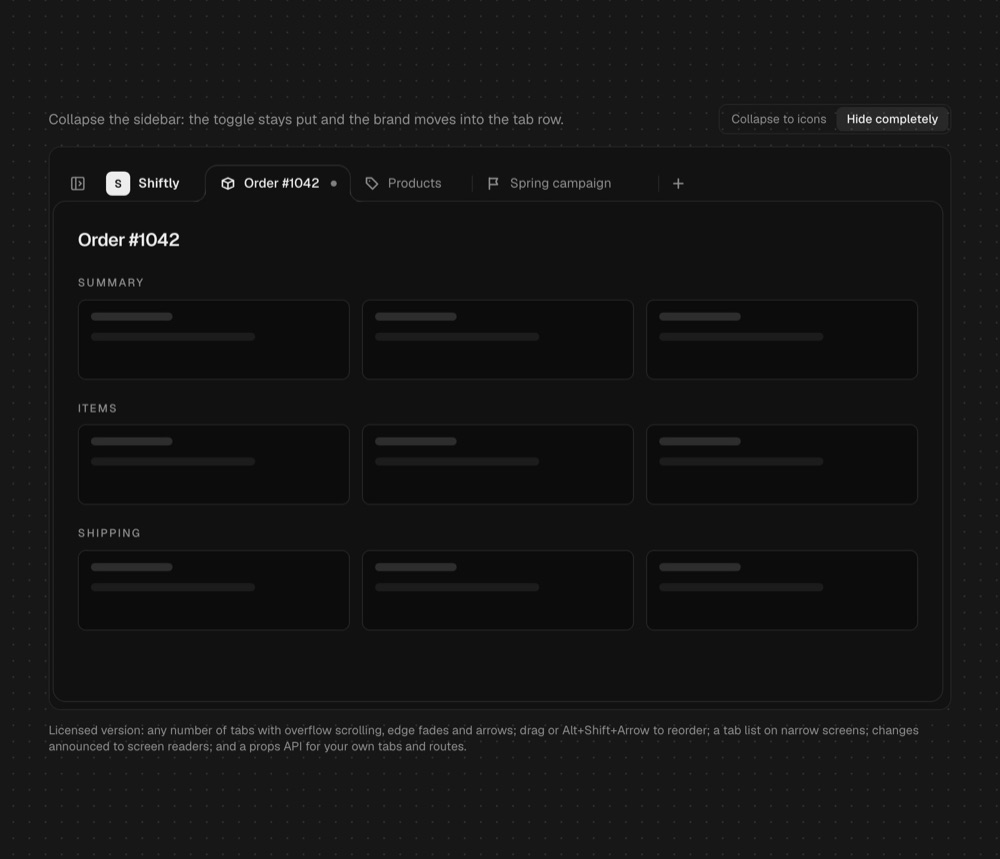
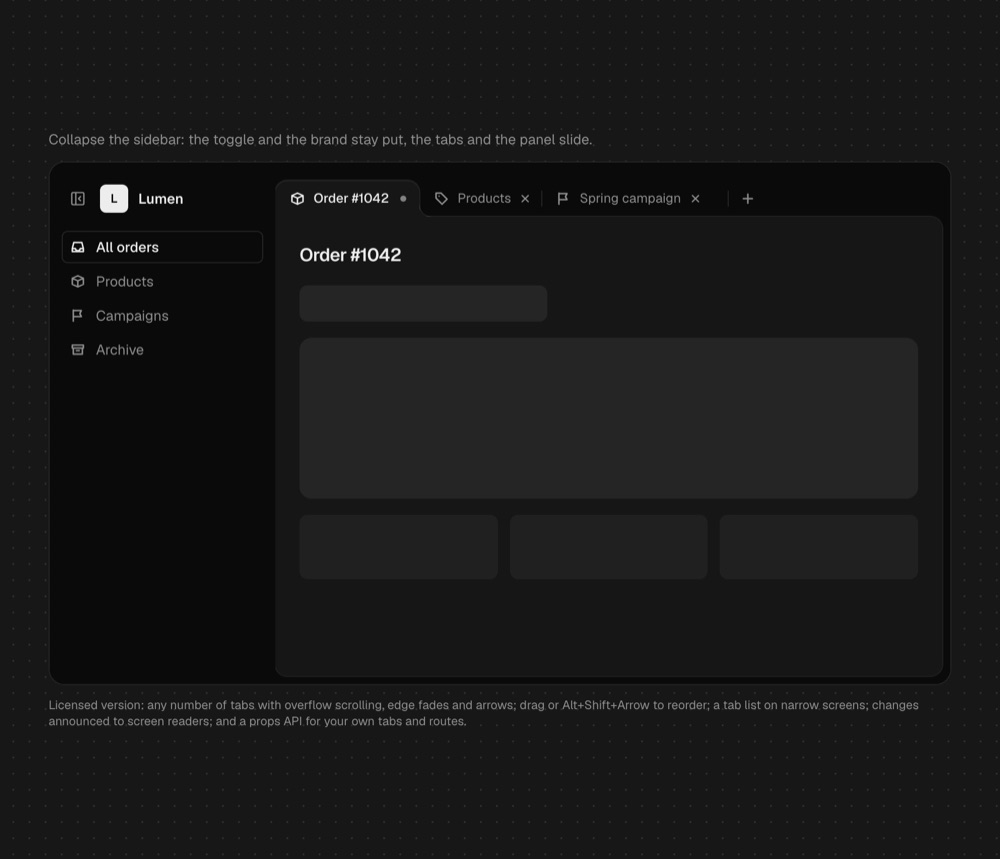
feat(app-shell): pinBrand keeps the brand beside the toggle; flush colours
Side-by-side with the reference video showed the brand never moves there: the
toggle and the brand are one fixed group at the top left, and only the tab row
and the panel slide with the sidebar.

- pinBrand renders the brand next to the pinned toggle in every state (right
  edge marked data-shell-brand); the sidebar keeps an invisible brand row so the
  nav does not shift
- layout="flush": window colour a step below the panels (muted mix in light,
  background in dark) so content panels stand out
- registry watchOut and zh-TW, zh-CN, ja copy for pinBrand; workspace-tabs OG
- reports: comparison with the reference before and after the fix

diff --git a/apps/web/registry/free/app-shell/app-shell.tsx b/apps/web/registry/free/app-shell/app-shell.tsx
@@ -136,6 +136,12 @@ export interface AppShellProps {
    * so it can draw its own surfaces (such as tabs joined to a panel). Phones keep the usual layout.
    */
   layout?: "padded" | "flush";
+  /**
+   * Desktop: keep the brand beside the toggle in every state, like a window title, instead of inside the sidebar
+   * where it fades out on collapse. Content that starts at the top (such as a tab row) should leave room for it while
+   * the sidebar is collapsed; its right edge is on the element marked data-shell-brand.
+   */
+  pinBrand?: boolean;
   /** Cmd/Ctrl + B toggles collapse; on by default */
   shortcut?: boolean;
   /** Second-level ids that start expanded; the section containing the current page expands automatically */
@@ -252,6 +258,8 @@ const ROW_BASE =
 const ROW_ACTIVE = "bg-background font-medium text-foreground shadow-[inset_0_0_0_1px_var(--border)]";
 const ROW_IDLE = "text-muted-foreground hover:bg-muted hover:text-foreground";
 const SIDEBAR_BG = "bg-[color-mix(in_oklab,var(--muted)_45%,var(--background))]";
+// layout="flush": one window colour for the sidebar and the content, a step below the panels that sit on it
+const FLUSH_BG = "bg-[color-mix(in_oklab,var(--muted)_80%,var(--background))] dark:bg-background";
 
 // Tailwind needs to see complete class strings to generate them, so write one copy for each breakpoint kind
 const BP = {
@@ -261,7 +269,7 @@ const BP = {
     mobile: "@3xl/shell:hidden",
     column: "flex min-h-0 min-w-0 flex-1 flex-col overflow-y-auto overscroll-contain",
     main: "min-w-0 flex-1 px-4 pt-5 pb-[calc(env(safe-area-inset-bottom)+5.5rem)] @3xl/shell:px-10 @3xl/shell:py-10",
-    flushColumn: "@3xl/shell:bg-[color-mix(in_oklab,var(--muted)_45%,var(--background))]",
+    flushColumn: "@3xl/shell:bg-[color-mix(in_oklab,var(--muted)_80%,var(--background))] @3xl/shell:dark:bg-background",
     flushMain: "flex min-h-0 flex-col @3xl/shell:p-0",
     layer: "absolute",
   },
@@ -271,7 +279,7 @@ const BP = {
     mobile: "md:hidden",
     column: "flex min-h-screen min-w-0 flex-1 flex-col",
     main: "min-w-0 flex-1 px-4 pt-5 pb-[calc(env(safe-area-inset-bottom)+5.5rem)] md:px-10 md:py-10",
-    flushColumn: "md:bg-[color-mix(in_oklab,var(--muted)_45%,var(--background))]",
+    flushColumn: "md:bg-[color-mix(in_oklab,var(--muted)_80%,var(--background))] md:dark:bg-background",
     flushMain: "flex flex-col md:p-0",
     layer: "fixed",
   },
@@ -1074,6 +1082,7 @@ function Sidebar({
   bp,
   collapseMode,
   flush,
+  pinBrand,
 }: {
   groups: AppShellNavGroup[];
   brand: AppShellProps["brand"];
@@ -1086,6 +1095,7 @@ function Sidebar({
   bp: (typeof BP)[keyof typeof BP];
   collapseMode: "rail" | "hidden";
   flush: boolean;
+  pinBrand: boolean;
 }) {
   const { t, link, navigate } = useShell();
   // Do not play the collapse animation on first load (the collapsed state may have just been read back from storage)
@@ -1118,28 +1128,46 @@ function Sidebar({
     <div className={cn(bp.desktop, !ready && "[&,&_*]:transition-none!")}>
       {/* One toggle for every state, pinned at the brand row's spacer (sidebar padding 12px + 2px, row top 20px + 2px).
           It never moves, so a second press lands on it again. First in the DOM so it is also first in tab order. */}
-      <button
-        type="button"
-        onClick={toggle}
-        aria-label={collapsed ? t.expand : t.collapse}
-        title={`${collapsed ? t.expand : t.collapse}${shortcut ? " (⌘B)" : ""}`}
-        aria-expanded={!collapsed}
-        className="absolute top-[22px] left-[14px] z-30 flex size-7 items-center justify-center rounded-md text-muted-foreground outline-none transition-colors hover:bg-muted hover:text-foreground focus-visible:ring-2 focus-visible:ring-ring/50"
-      >
-        {/* The two icons cross-fade in place */}
-        <PanelLeftClose
-          className={cn(
-            "absolute size-4 transition-opacity duration-150 motion-reduce:transition-none",
-            collapsed ? "opacity-0" : "opacity-100",
-          )}
-        />
-        <PanelLeftOpen
-          className={cn(
-            "absolute size-4 transition-opacity duration-150 motion-reduce:transition-none",
-            collapsed ? "opacity-100" : "opacity-0",
-          )}
-        />
-      </button>
+      <div className="absolute top-[22px] left-[14px] z-30 flex items-center gap-2">
+        <button
+          type="button"
+          onClick={toggle}
+          aria-label={collapsed ? t.expand : t.collapse}
+          title={`${collapsed ? t.expand : t.collapse}${shortcut ? " (⌘B)" : ""}`}
+          aria-expanded={!collapsed}
+          className="relative flex size-7 shrink-0 items-center justify-center rounded-md text-muted-foreground outline-none transition-colors hover:bg-muted hover:text-foreground focus-visible:ring-2 focus-visible:ring-ring/50"
+        >
+          {/* The two icons cross-fade in place */}
+          <PanelLeftClose
+            className={cn(
+              "absolute size-4 transition-opacity duration-150 motion-reduce:transition-none",
+              collapsed ? "opacity-0" : "opacity-100",
+            )}
+          />
+          <PanelLeftOpen
+            className={cn(
+              "absolute size-4 transition-opacity duration-150 motion-reduce:transition-none",
+              collapsed ? "opacity-100" : "opacity-0",
+            )}
+          />
+        </button>
+        {pinBrand
+          ? link({
+              href: brand.href ?? "/",
+              onClick: (e) => navigate(brand.href ?? "/", e),
+              "aria-label": t.home(brand.name),
+              "data-shell-brand": "",
+              className:
+                "flex items-center gap-2.5 rounded-md pr-1.5 text-sm font-semibold whitespace-nowrap text-foreground outline-none focus-visible:ring-2 focus-visible:ring-ring/50",
+              children: (
+                <>
+                  <span className="flex size-7 shrink-0 items-center justify-center rounded-md bg-foreground text-background">{logo}</span>
+                  {brand.name}
+                </>
+              ),
+            } as AppShellLinkProps)
+          : null}
+      </div>
       {/* hidden mode: this clip animates its width to 0 while the sidebar keeps its full width, so nothing reflows */}
       <div
         inert={hidden && collapsed}
@@ -1155,7 +1183,7 @@ function Sidebar({
           className={cn(
             "group/sidebar flex h-full flex-col overflow-hidden px-3 py-5 transition-[width] duration-300 motion-reduce:transition-none",
             !flush && "border-r border-border",
-            SIDEBAR_BG,
+            flush ? FLUSH_BG : SIDEBAR_BG,
             EASE,
             rail ? "w-14" : "w-56",
           )}
@@ -1165,7 +1193,7 @@ function Sidebar({
               out with the other labels when the sidebar collapses. */}
           <div className="flex h-8 items-center gap-2">
             <span aria-hidden="true" className="ml-0.5 size-7 shrink-0" />
-            <div className={cn("flex min-w-0 flex-1 items-center gap-2.5", FADE)}>
+            <div className={cn("flex min-w-0 flex-1 items-center gap-2.5", FADE, pinBrand && "invisible")}>
               {link({
                 href: brand.href ?? "/",
                 onClick: (e) => navigate(brand.href ?? "/", e),
@@ -1513,6 +1541,7 @@ export function AppShell({
   breakpoint = "container",
   collapseMode = "rail",
   layout = "padded",
+  pinBrand = false,
   locale,
   labels,
   className,
@@ -1634,6 +1663,7 @@ export function AppShell({
               bp={bp}
               collapseMode={collapseMode}
               flush={layout === "flush"}
+              pinBrand={pinBrand}
             />
             <div ref={columnRef} className={cn(bp.column, layout === "flush" && bp.flushColumn)}>
               <MobileTopBar

diff --git a/reports/側邊欄開關不要跳與動態分頁深度分析-2026-11-22.md b/reports/側邊欄開關不要跳與動態分頁深度分析-2026-11-22.md
@@ -64,3 +64,21 @@
 
 - **規則寫進 agent 指引**：把「開關錨定、一顆按鈕」寫進 `DESIGN-product.md` 與 `lib/agent/guidelines.ts`，agent 用 SunUI 組 app 外框時也會照做。（這次沒改設計文件，要改的話兩邊一起改。）
 - **行銷素材**：「反例 192px，正解 0px」這種前後對照的短片很好傳播，SunUI 的 Pro 場景可以用同一種剪法做發布影片。
+
+## 7. 對照原作後的差距（2026-11-22 補）
+
+![原作與我們的對照](assets/workspace-tabs-對照原作-2026-11-22.png)
+
+逐格並排之後，有一個是**我讀錯**的地方，其餘是做得不夠到位：
+
+1. **讀錯：品牌從頭到尾沒有動。** 原作的開關與「Notes」是固定在左上的一組，展開、收合都在同一點；會動的是分頁列與內容面板，收合時面板左緣往左滑到開關下方。我做成「側邊欄的品牌淡出，分頁列再長出另一個品牌」，兩個元素交接，畫面上品牌會閃一下、大小也不一樣。
+2. **展開時第一個分頁貼齊面板左緣。** 原作的選中分頁左邊直接往下接成面板的左邊，沒有反向圓角；收合後面板左緣移走，分頁左邊才出現反向圓角。這正是第 1 節影片 3 秒處放大的那個 14px 圓角。P2 我以「有留白、用不到」拿掉了，這是錯的判斷。
+3. **對比與比例。** 原作面板比外框亮一階，邊界一眼看得到；我們深色模式的面板跟外框幾乎一樣黑。原作的關閉鍵 × 在每個分頁都看得到，字級與分頁高度也大很多。
+4. **內容太滿。** 原作側邊欄只有四個項目，沒有門市切換與帳號列；我們沿用 App Shell 的完整示範，重點被稀釋。
+5. **影片本身。** 原作是拍給人看的講解影片：鏡頭推近到局部、框出檢視範圍、下半部 0.1 倍速放大並標出圓角半徑與時間、反例畫出 192px 的箭頭。我們的型錄卡片影片是自動錄的小卡，兩者不是同一種東西；要有同樣的效果，得另外做一支講解影片。
+
+### 修正後（同日）
+
+![修正後與原作的對照](assets/workspace-tabs-對照原作-修正後-2026-11-22.png)
+
+第 1 到 4 點已改：品牌與開關固定成一組不再移動；展開時第一個分頁貼齊面板左緣、面板左上角變直角；收合時面板滑到開關下方、分頁緊接在品牌後；面板在深色模式亮一階；每個分頁都顯示 ×；示範只留四個導覽項目。剩下的差距是呈現方式：原作是放大約兩倍拍的講解影片（第 5 點），要另外製作。

diff --git a/reports/Pro場景-工作區分頁-規劃-2026-11-22.md b/reports/Pro場景-工作區分頁-規劃-2026-11-22.md
@@ -164,3 +164,14 @@ interface WorkspaceTabsProps {
 - OG 分享圖已截（`public/og/blocks/workspace-tabs.jpg`）。展示版寬度改成 `max-w-4xl`，原本 6xl 又矮又寬，截圖程式會從中間裁掉兩側。
 - 試做頁與 `study-*.tsx` 已刪除。
 - 沒做：首頁帶狀型錄卡片（`content/home-cards.json` 是精選清單，要不要放由你決定）、「192px 對 0px」對照短片、用真的授權碼跑一次 `npx shadcn add @sunui-pro/workspace-tabs` 確認 `@/components/ui/app-shell` 匯入路徑在買家專案裡會被正確改寫。
+
+## 11. 照原作重做版面（2026-11-22）
+
+並排對照後發現版面讀錯（詳見分析報告第 7 節）。修正內容：
+
+- **免費 `app-shell`**：新增 `pinBrand`，品牌和開關一起固定在左上（`data-shell-brand` 標出右緣），側邊欄裡原本的品牌列保留高度但隱藏；`layout="flush"` 的底色改成淺色比面板暗一點、深色用 `background`，讓面板浮出來。
+- **`WorkspaceTabs`**：新增 `flushStart`。開啟時分頁列沒有左側留白；第一個分頁被選中時，左側反向圓角淡出、面板左上角變直角，兩者共用一條直的左邊。這些變化跟側邊欄同一條曲線與時長（300ms）。× 改成每個分頁都顯示（有未儲存點的分頁滑過才顯示）。面板與選中分頁改用 `--ws-surface`（淺色等於 card，深色是 card 與 muted 各半）。
+- **`WorkspaceShell`**：不再自己畫第二個品牌。量測固定品牌的右緣，算出收合時分頁列前面要空多少，跟面板左側內距一起用同一條曲線動畫；預設 `collapseMode` 改成 `hidden`（原作沒有圖示欄）。
+- **demo 與展示版**：只留四個導覽項目，沒有門市切換與帳號列，固定 `hidden` 模式。
+- 實測：開關與品牌在收合前、中、後座標都不變；收合後第一個分頁在品牌右緣後 16px，面板離外框左緣 8px；展開時面板左上角圓角 0、收合時 12px。
+- OG 與型錄卡片影片已重截、重錄。
